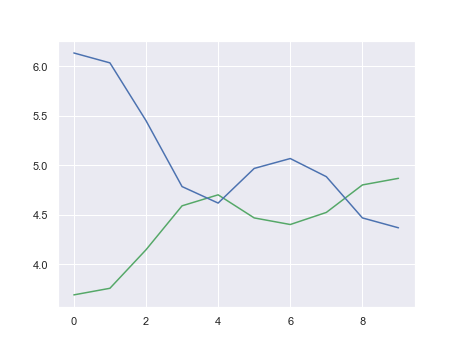
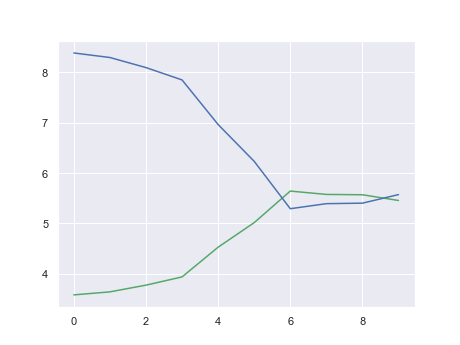
more changes to mean updates

diff --git a/distro_neil.py b/distro_neil.py
@@ -190,8 +190,8 @@ def main():
     VAR_A = 1
     VAR_B = 1
     QUERY_LEN = 10
-    NUM_QUERIES = 10
-    NUM_ITER = 25
+    NUM_QUERIES = 50
+    NUM_ITER = 100
     # NUM_ITERS = [10, 25, 100]
     METRIC = 'avg_position'
     DIST = 'normal'
@@ -221,13 +221,13 @@ def main():
         # update population distributions for next iteration
         # keeping the sum the same
         mean_a[i], mean_b[i] = MEAN_A, MEAN_B
-        if abs(MEAN_B - MEAN_A) > 0.02:
+        if abs(MEAN_B - MEAN_A) > 0.01:
             if MEAN_B < MEAN_A:
-                MEAN_B += update_mean(np.mean(arr_b))
-                MEAN_A -= update_mean(np.mean(arr_b))
+                MEAN_B += update_mean(np.mean(arr_b)) / 2
+                MEAN_A -= update_mean(np.mean(arr_b)) / 2
             if MEAN_A < MEAN_B:
-                MEAN_A += update_mean(np.mean(arr_a))
-                MEAN_B -= update_mean(np.mean(arr_a))
+                MEAN_A += update_mean(np.mean(arr_a)) / 2
+                MEAN_B -= update_mean(np.mean(arr_a)) / 2
 
     # plot change in metric over time
     plt.plot(np.arange(NUM_ITER), metric_a, color='C2', label=f'Group A {METRIC}')
